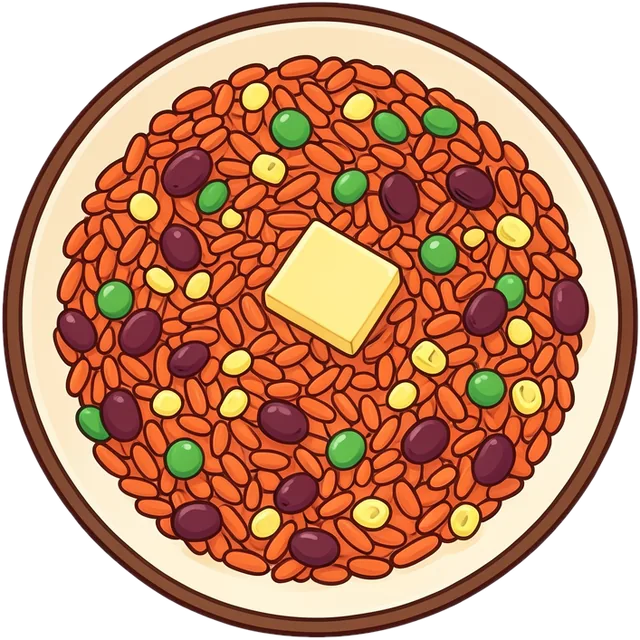
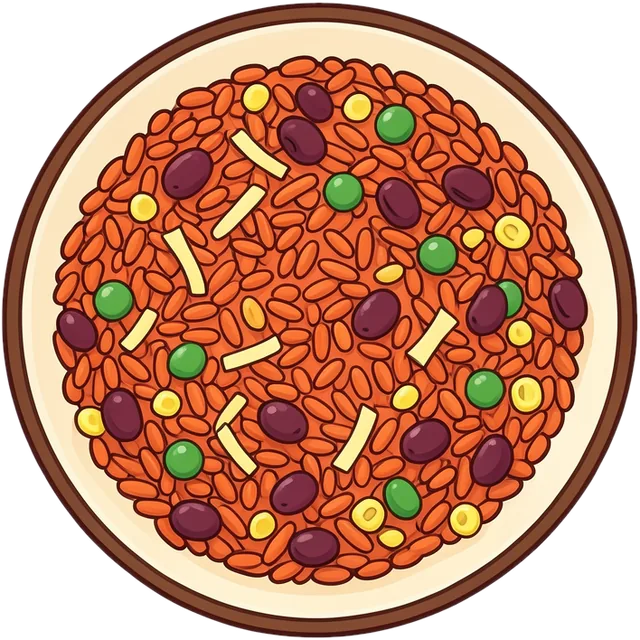
v11: tortellini og tomatris tegnet om igen (UI-review V12/V13)
Tortellini: foldede ringe i orangerød flødetomatsovs (seed 7) i stedet for
ravioli med en laksefarvet klat. Tomatris: revet ost i strimler (seed 42) i
stedet for en osteterning. Begge tjekket på mørk bund uden huller.
UDGAVE_INDHOLD og INDHOLD opdateret.

diff --git a/sw.js b/sw.js
@@ -9,7 +9,7 @@
    Svarer nettet ikke inden for HENT_MS (4 s), kommer en opskrift (også index.json) fra cachen, og nettets svar gemmes
    til næste gang. De næste LANGSOM_MS (30 s) tager opskrifterne cachen med det samme (code review U3 og F2, 23-10). */
 const PRAEFIKS = 'kog-';
-const INDHOLD = 'bea062fe126a8d83'; // sha256 (16 tegn) af FILER — sæt den værdi, test/test-sw.js viser i fejlbeskeden
+const INDHOLD = '11fcf614af1912f3'; // sha256 (16 tegn) af FILER — sæt den værdi, test/test-sw.js viser i fejlbeskeden
 const VERSION = PRAEFIKS + INDHOLD;
 const LYD = '7b503e0be6847e32'; // sha256 (16 tegn) af lydfilerne (lyd/*/*.mp3) — sæt den værdi, test/test-sw.js viser
 const LYD_CACHE = PRAEFIKS + 'lyd-' + LYD;

diff --git a/js/version.js b/js/version.js
@@ -4,4 +4,4 @@
 // UDGAVE_INDHOLD er filernes fingeraftryk for nummeret. test/test-version.js fejler, når en fil ændres uden et nyt
 // nummer, og skriver de to nye linjer i fejlbeskeden.
 export const UDGAVE = 'v11 · 17-11-2026';
-export const UDGAVE_INDHOLD = 'v11:fefa07647b806695';
+export const UDGAVE_INDHOLD = 'v11:69bc2035e9ba4cca';
